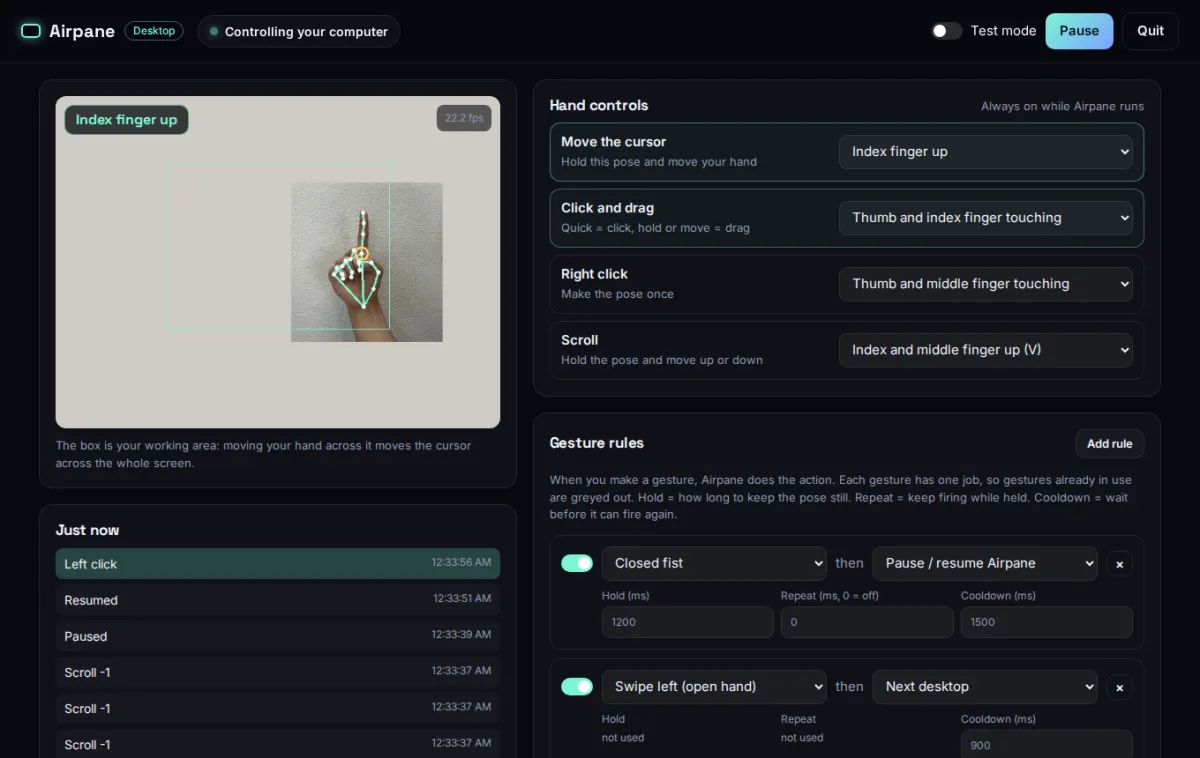
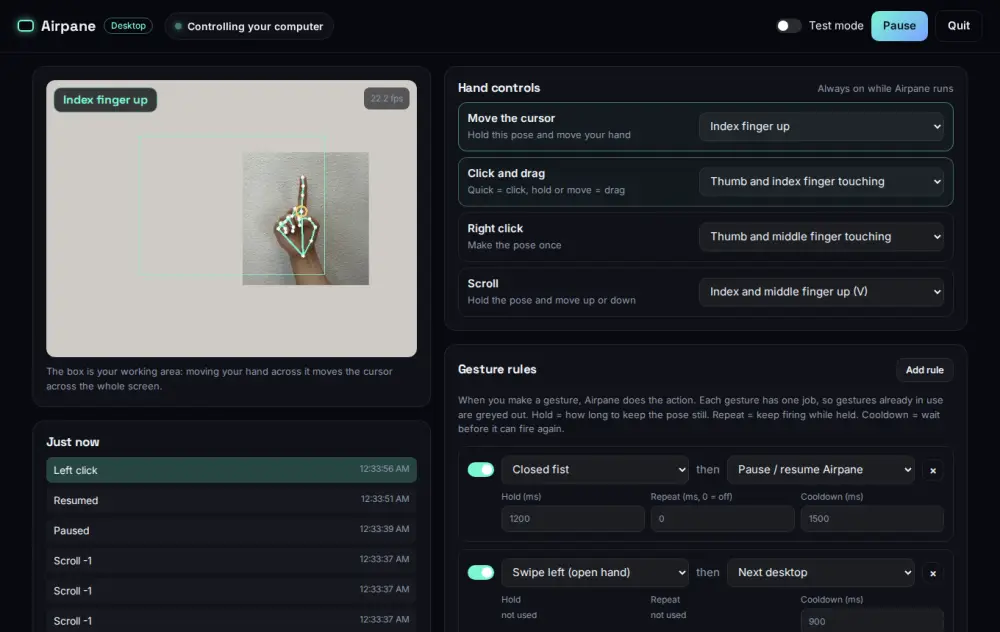
Smaller page screenshot
Claude-Session: https://claude.ai/code/session_01M35oj6yoHZhBS5wKdui3T9

diff --git a/public/desktop/index.html b/public/desktop/index.html
@@ -27,7 +27,7 @@
           <p class="small muted">Free. Takes a minute or two. Needs macOS with Python 3.9 to 3.12 (the installer tells you if it is missing). Video never leaves your Mac.</p>
         </div>
       </div>
-      <figure class="shot"><img src="/desktop/settings.webp" width="1200" height="758" alt="Airpane Desktop settings: live camera view with the hand tracked, hand controls and gesture rules" /></figure>
+      <figure class="shot"><img src="/desktop/settings.webp" width="1000" height="632" alt="Airpane Desktop settings: live camera view with the hand tracked, hand controls and gesture rules" /></figure>
     </section>
 
     <section class="how">
